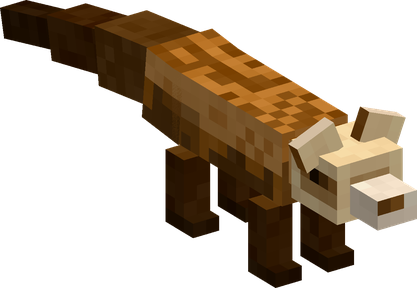
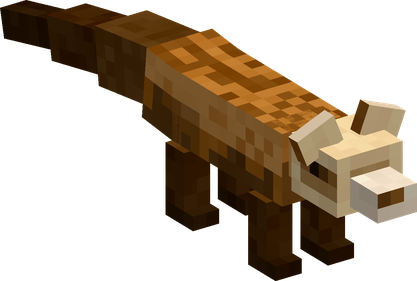
InoFruits 3.3.0 (#63)

diff --git a/docs/mods/inofruits/fruits/index.md b/docs/mods/inofruits/fruits/index.md
@@ -12,7 +12,6 @@ InoFruits adds **34 Devil Fruits**. Pick one to see its abilities.
 | ![](../fruit-icons/gamu-gamu-no-mi.png){ .fruit-icon } [**Gamu Gamu no Mi**](gamu-gamu-no-mi.md) | chewing gum | ![Iron box](../../../assets/mineminenomi/iron_box.png "Iron box: texture from Mine Mine no Mi"){ .box-icon } Iron | [Neba Dan](gamu-gamu-no-mi.md#neba-dan), [Fuusen](gamu-gamu-no-mi.md#fuusen), [Kikyu](gamu-gamu-no-mi.md#kikyu), [Banji Gamu](gamu-gamu-no-mi.md#banji-gamu), [Nebaashi](gamu-gamu-no-mi.md#nebaashi), [Hanekaeshi](gamu-gamu-no-mi.md#hanekaeshi) |
 | ![](../fruit-icons/hone-hone-no-mi.png){ .fruit-icon } [**Hone Hone no Mi**](hone-hone-no-mi.md) | bone | ![Iron box](../../../assets/mineminenomi/iron_box.png "Iron box: texture from Mine Mine no Mi"){ .box-icon } Iron | [Hone Hone Point](hone-hone-no-mi.md#hone-hone-point), [Bone Throw](hone-hone-no-mi.md#bone-throw), [Bone Blade](hone-hone-no-mi.md#bone-blade), [Bone Shards](hone-hone-no-mi.md#bone-shards), [Bone Mend](hone-hone-no-mi.md#bone-mend), [Spare Bone](hone-hone-no-mi.md#spare-bone) |
 | ![](../fruit-icons/ichi-ichi-no-mi.png){ .fruit-icon } [**Ichi Ichi no Mi**](ichi-ichi-no-mi.md) | swapping | ![Iron box](../../../assets/mineminenomi/iron_box.png "Iron box: texture from Mine Mine no Mi"){ .box-icon } Iron | [Irekae](ichi-ichi-no-mi.md#irekae), [Zen Irekae](ichi-ichi-no-mi.md#zen-irekae), [Surikae](ichi-ichi-no-mi.md#surikae), [Hikikae](ichi-ichi-no-mi.md#hikikae), [Memai](ichi-ichi-no-mi.md#memai) |
-| ![](../fruit-icons/iro-iro-no-mi.png){ .fruit-icon } [**Iro Iro no Mi**](iro-iro-no-mi.md) | dye | ![Wooden box](../../../assets/mineminenomi/wooden_box.png "Wooden box: texture from Mine Mine no Mi"){ .box-icon } Wooden | [Enogu Dama](iro-iro-no-mi.md#enogu-dama), [Shirushi](iro-iro-no-mi.md#shirushi), [Hogoshoku](iro-iro-no-mi.md#hogoshoku), [Ikusa Gesho](iro-iro-no-mi.md#ikusa-gesho), [Enogu](iro-iro-no-mi.md#enogu) |
 | ![](../fruit-icons/kane-kane-no-mi.png){ .fruit-icon } [**Kane Kane no Mi**](kane-kane-no-mi.md) | treasure | ![Wooden box](../../../assets/mineminenomi/wooden_box.png "Wooden box: texture from Mine Mine no Mi"){ .box-icon } Wooden | [Komyaku](kane-kane-no-mi.md#komyaku), [Meate](kane-kane-no-mi.md#meate), [Nakami](kane-kane-no-mi.md#nakami), [Kiun](kane-kane-no-mi.md#kiun), [Zeni Nage](kane-kane-no-mi.md#zeni-nage), [Oatari](kane-kane-no-mi.md#oatari) |
 | ![](../fruit-icons/kiza-kiza-no-mi.png){ .fruit-icon } [**Kiza Kiza no Mi**](kiza-kiza-no-mi.md) | slider | ![Wooden box](../../../assets/mineminenomi/wooden_box.png "Wooden box: texture from Mine Mine no Mi"){ .box-icon } Wooden | [Kiza Dashi](kiza-kiza-no-mi.md#kiza-dashi), [Hikisage](kiza-kiza-no-mi.md#hikisage), [Kiza Modoshi](kiza-kiza-no-mi.md#kiza-modoshi), [Kiza Maki](kiza-kiza-no-mi.md#kiza-maki), [Oshiage](kiza-kiza-no-mi.md#oshiage), [Zen Hikisage](kiza-kiza-no-mi.md#zen-hikisage) |
 | ![](../fruit-icons/kobo-kobo-no-mi.png){ .fruit-icon } [**Kobo Kobo no Mi**](kobo-kobo-no-mi.md) | spill | ![Wooden box](../../../assets/mineminenomi/wooden_box.png "Wooden box: texture from Mine Mine no Mi"){ .box-icon } Wooden | [Te Kobo](kobo-kobo-no-mi.md#te-kobo), [Hako Kobo](kobo-kobo-no-mi.md#hako-kobo), [Chi Kobo](kobo-kobo-no-mi.md#chi-kobo), [Hara Kobo](kobo-kobo-no-mi.md#hara-kobo) |
@@ -21,6 +20,7 @@ InoFruits adds **34 Devil Fruits**. Pick one to see its abilities.
 | ![](../fruit-icons/mitsu-mitsu-no-mi.png){ .fruit-icon } [**Mitsu Mitsu no Mi**](mitsu-mitsu-no-mi.md) | honey | ![Iron box](../../../assets/mineminenomi/iron_box.png "Iron box: texture from Mine Mine no Mi"){ .box-icon } Iron | [Mitsu Numa](mitsu-mitsu-no-mi.md#mitsu-numa), [Mitsu Goromo](mitsu-mitsu-no-mi.md#mitsu-goromo), [Mitsu Gusuri](mitsu-mitsu-no-mi.md#mitsu-gusuri), [Kohaku](mitsu-mitsu-no-mi.md#kohaku), [Amahada](mitsu-mitsu-no-mi.md#amahada), [Mitsu Suberi](mitsu-mitsu-no-mi.md#mitsu-suberi) |
 | ![](../fruit-icons/neji-neji-no-mi.png){ .fruit-icon } [**Neji Neji no Mi**](neji-neji-no-mi.md) | twist | ![Wooden box](../../../assets/mineminenomi/wooden_box.png "Wooden box: texture from Mine Mine no Mi"){ .box-icon } Wooden | [Neji Neji Point](neji-neji-no-mi.md#neji-neji-point), [Rasen](neji-neji-no-mi.md#rasen), [Nejikiri](neji-neji-no-mi.md#nejikiri), [Nejikomi](neji-neji-no-mi.md#nejikomi), [Totsushin](neji-neji-no-mi.md#totsushin) |
 | ![](../fruit-icons/oki-oki-no-mi.png){ .fruit-icon } [**Oki Oki no Mi**](oki-oki-no-mi.md) | law | ![Golden box](../../../assets/mineminenomi/golden_box.png "Golden box: texture from Mine Mine no Mi"){ .box-icon } Golden | [Halt](oki-oki-no-mi.md#law-halt), [Grounded](oki-oki-no-mi.md#law-grounded), [Levitate](oki-oki-no-mi.md#law-levitate), [Truce](oki-oki-no-mi.md#law-truce), [Ceasefire](oki-oki-no-mi.md#law-ceasefire), [Silence](oki-oki-no-mi.md#law-silence), [No Healing](oki-oki-no-mi.md#law-no-healing), [No Escape](oki-oki-no-mi.md#law-no-escape), [Disarm](oki-oki-no-mi.md#law-disarm), [No Haki](oki-oki-no-mi.md#law-no-haki), [Reveal](oki-oki-no-mi.md#law-reveal), [Retribution](oki-oki-no-mi.md#law-retribution), [Inversion](oki-oki-no-mi.md#law-inversion), [Blindness](oki-oki-no-mi.md#law-blindness), [No Building](oki-oki-no-mi.md#law-no-building), [Walk](oki-oki-no-mi.md#law-walk) |
+| ![](../fruit-icons/some-some-no-mi.png){ .fruit-icon } [**Some Some no Mi**](some-some-no-mi.md) | dye | ![Wooden box](../../../assets/mineminenomi/wooden_box.png "Wooden box: texture from Mine Mine no Mi"){ .box-icon } Wooden | [Enogu Dama](some-some-no-mi.md#enogu-dama), [Shirushi](some-some-no-mi.md#shirushi), [Hogoshoku](some-some-no-mi.md#hogoshoku), [Ikusa Gesho](some-some-no-mi.md#ikusa-gesho), [Enogu](some-some-no-mi.md#enogu) |
 | ![](../fruit-icons/suji-suji-no-mi.png){ .fruit-icon } [**Suji Suji no Mi**](suji-suji-no-mi.md) | muscle | ![Iron box](../../../assets/mineminenomi/iron_box.png "Iron box: texture from Mine Mine no Mi"){ .box-icon } Iron | [Suji Suji Upper Point](suji-suji-no-mi.md#suji-suji-upper-point), [Suji Suji Lower Point](suji-suji-no-mi.md#suji-suji-lower-point), [Suji Suji Full Point](suji-suji-no-mi.md#suji-suji-full-point), [Hasai](suji-suji-no-mi.md#hasai), [Choyaku](suji-suji-no-mi.md#choyaku) |
 | ![](../fruit-icons/tsuri-tsuri-no-mi.png){ .fruit-icon } [**Tsuri Tsuri no Mi**](tsuri-tsuri-no-mi.md) | fishing | ![Wooden box](../../../assets/mineminenomi/wooden_box.png "Wooden box: texture from Mine Mine no Mi"){ .box-icon } Wooden | [Ipponzuri](tsuri-tsuri-no-mi.md#ipponzuri), [Tsuriage](tsuri-tsuri-no-mi.md#tsuriage), [Kaginawa](tsuri-tsuri-no-mi.md#kaginawa), [Tsuribito](tsuri-tsuri-no-mi.md#tsuribito) |
 | ![](../fruit-icons/wata-wata-no-mi.png){ .fruit-icon } [**Wata Wata no Mi**](wata-wata-no-mi.md) | cotton | ![Wooden box](../../../assets/mineminenomi/wooden_box.png "Wooden box: texture from Mine Mine no Mi"){ .box-icon } Wooden | [Wata Yoroi](wata-wata-no-mi.md#wata-yoroi), [Watagumo](wata-wata-no-mi.md#watagumo), [Wataho](wata-wata-no-mi.md#wataho), [Watazumi](wata-wata-no-mi.md#watazumi) |

diff --git a/docs/mods/inofruits/all-abilities.md b/docs/mods/inofruits/all-abilities.md
@@ -48,11 +48,6 @@ Every ability of the 34 fruits in one table: **click a column** to sort it, **ty
 | ![](abilities/surikae.png){ .ability-mini }[Surikae](fruits/ichi-ichi-no-mi.md#surikae) | [Ichi Ichi no Mi](fruits/ichi-ichi-no-mi.md) | Active | 20 s |  |  |  | 128 blocks (line) |
 | ![](abilities/hikikae.png){ .ability-mini }[Hikikae](fruits/ichi-ichi-no-mi.md#hikikae) | [Ichi Ichi no Mi](fruits/ichi-ichi-no-mi.md) | Active | 20 s |  |  |  | 128 blocks (line) |
 | ![](abilities/memai.png){ .ability-mini }[Memai](fruits/ichi-ichi-no-mi.md#memai) | [Ichi Ichi no Mi](fruits/ichi-ichi-no-mi.md) | Passive |  |  |  |  |  |
-| ![](abilities/enogu-dama.png){ .ability-mini }[Enogu Dama](fruits/iro-iro-no-mi.md#enogu-dama) | [Iro Iro no Mi](fruits/iro-iro-no-mi.md) | Active | 6 s |  |  | 2 |  |
-| ![](abilities/shirushi.png){ .ability-mini }[Shirushi](fruits/iro-iro-no-mi.md#shirushi) | [Iro Iro no Mi](fruits/iro-iro-no-mi.md) | Active | 15 s |  |  |  | 12 blocks (line) |
-| ![](abilities/hogoshoku.png){ .ability-mini }[Hogoshoku](fruits/iro-iro-no-mi.md#hogoshoku) | [Iro Iro no Mi](fruits/iro-iro-no-mi.md) | Active | 20 s |  | 30 s |  |  |
-| ![](abilities/ikusa-gesho.png){ .ability-mini }[Ikusa Gesho](fruits/iro-iro-no-mi.md#ikusa-gesho) | [Iro Iro no Mi](fruits/iro-iro-no-mi.md) | Active | 30 s |  | 30 s |  |  |
-| ![](abilities/enogu.png){ .ability-mini }[Enogu](fruits/iro-iro-no-mi.md#enogu) | [Iro Iro no Mi](fruits/iro-iro-no-mi.md) | Active | 1 s |  |  |  |  |
 | ![](abilities/isa-isa-guard-point.png){ .ability-mini }[Isa Isa Guard Point](fruits/isa-isa-no-mi-model-whale.md#isa-isa-guard-point) | [Isa Isa no Mi, Model: Whale](fruits/isa-isa-no-mi-model-whale.md) | Active · Transformation |  |  |  |  |  |
 | ![](abilities/isa-isa-heavy-point.png){ .ability-mini }[Isa Isa Heavy Point](fruits/isa-isa-no-mi-model-whale.md#isa-isa-heavy-point) | [Isa Isa no Mi, Model: Whale](fruits/isa-isa-no-mi-model-whale.md) | Active · Transformation |  |  |  |  |  |
 | ![](abilities/taiatari.png){ .ability-mini }[Taiatari](fruits/isa-isa-no-mi-model-whale.md#taiatari) | [Isa Isa no Mi, Model: Whale](fruits/isa-isa-no-mi-model-whale.md) | Active | 15 s |  |  | 8 / 14 | 4.5 blocks (area) / 8 blocks (area) |
@@ -173,6 +168,11 @@ Every ability of the 34 fruits in one table: **click a column** to sort it, **ty
 | ![](abilities/shio-no-wa.png){ .ability-mini }[Shio no Wa](fruits/shio-shio-no-mi.md#shio-no-wa) | [Shio Shio no Mi](fruits/shio-shio-no-mi.md) | Active | 20 s |  | 30 s |  | 8 blocks (area) |
 | ![](abilities/dassui.png){ .ability-mini }[Dassui](fruits/shio-shio-no-mi.md#dassui) | [Shio Shio no Mi](fruits/shio-shio-no-mi.md) | Active | 14 s |  |  | 6 | 8 blocks (area) |
 | ![](abilities/shio-bashira.png){ .ability-mini }[Shio Bashira](fruits/shio-shio-no-mi.md#shio-bashira) | [Shio Shio no Mi](fruits/shio-shio-no-mi.md) | Active | 30 s |  |  | 20 | 20 blocks (line) |
+| ![](abilities/enogu-dama.png){ .ability-mini }[Enogu Dama](fruits/some-some-no-mi.md#enogu-dama) | [Some Some no Mi](fruits/some-some-no-mi.md) | Active | 6 s |  |  | 2 |  |
+| ![](abilities/shirushi.png){ .ability-mini }[Shirushi](fruits/some-some-no-mi.md#shirushi) | [Some Some no Mi](fruits/some-some-no-mi.md) | Active | 15 s |  |  |  | 12 blocks (line) |
+| ![](abilities/hogoshoku.png){ .ability-mini }[Hogoshoku](fruits/some-some-no-mi.md#hogoshoku) | [Some Some no Mi](fruits/some-some-no-mi.md) | Active | 20 s |  | 30 s |  |  |
+| ![](abilities/ikusa-gesho.png){ .ability-mini }[Ikusa Gesho](fruits/some-some-no-mi.md#ikusa-gesho) | [Some Some no Mi](fruits/some-some-no-mi.md) | Active | 30 s |  | 30 s |  |  |
+| ![](abilities/enogu.png){ .ability-mini }[Enogu](fruits/some-some-no-mi.md#enogu) | [Some Some no Mi](fruits/some-some-no-mi.md) | Active | 1 s |  |  |  |  |
 | ![](abilities/suji-suji-upper-point.png){ .ability-mini }[Suji Suji Upper Point](fruits/suji-suji-no-mi.md#suji-suji-upper-point) | [Suji Suji no Mi](fruits/suji-suji-no-mi.md) | Active · Transformation |  |  |  |  |  |
 | ![](abilities/suji-suji-lower-point.png){ .ability-mini }[Suji Suji Lower Point](fruits/suji-suji-no-mi.md#suji-suji-lower-point) | [Suji Suji no Mi](fruits/suji-suji-no-mi.md) | Active · Transformation |  |  |  |  |  |
 | ![](abilities/suji-suji-full-point.png){ .ability-mini }[Suji Suji Full Point](fruits/suji-suji-no-mi.md#suji-suji-full-point) | [Suji Suji no Mi](fruits/suji-suji-no-mi.md) | Active · Transformation |  |  |  |  |  |

diff --git a/docs/mods/inofruits/changelog.md b/docs/mods/inofruits/changelog.md
@@ -2,6 +2,52 @@
 
 Every InoFruits release for Minecraft 1.20.1, newest first, as published on [CurseForge](https://www.curseforge.com/minecraft/mc-mods/inofruits/files/all).
 
+## 3.3.0 { #v3-3-0 }
+
+<small>Released 2026-09-30 · [Download](https://www.curseforge.com/minecraft/mc-mods/inofruits/files/9016786)</small>
+
+<div class="changelog-body" markdown="0">
+<p><strong>The Iro Iro no Mi becomes the Some Some no Mi, the ferret gets three more coats, and fruits renamed in 3.0.0 come
+back in old worlds.</strong> The fruits are also put in the Devil Fruit boxes by data files now, so a modpack or a server
+can choose which box gives which fruit.</p>
+<p>Requires Minecraft <strong>1.20.1</strong>, Forge <strong>47+</strong>, <strong>Mine Mine no Mi</strong> 0.11.5 and <strong>AkumaLib 3.0.0</strong> or newer.</p>
+<p>⚠ <strong>Update AkumaLib to 3.0.0 first.</strong> With an older AkumaLib the game refuses to start and says which version it
+needs. And with AkumaLib 3.0.0, InoFruits 3.2.0 or older puts its fruits in no box: update both together.</p>
+<hr />
+<h2>Devil Fruit boxes</h2>
+<ul>
+<li><strong>Every fruit is in the same box as before</strong>, as common as a Mine Mine no Mi fruit of its tier, and the chance
+  for a box to give a fruit of the tier above still reaches them.</li>
+<li><strong>Modpacks and servers can change it</strong> with a data pack: move a fruit to another box, make it rarer or more
+  common, or take it out (see AkumaLib's
+  <a href="https://inovactio.github.io/akumalib/loot-injection/devil-fruit-boxes/">Devil Fruit boxes page</a>).</li>
+</ul>
+<h2>New looks</h2>
+<ul>
+<li><strong>Three more coats for the ferret: albino, polecat and full black</strong>, in both forms. The ferret now comes in six
+  coats, and each player still always gets the same one. ⚠ With more coats to choose from, about half the players'
+  ferrets change colour once.</li>
+</ul>
+<h2>Renamed</h2>
+<ul>
+<li><strong>The Iro Iro no Mi is now the Some Some no Mi</strong> ("dye"): the old name belongs to a fruit of One Piece itself.
+  Nothing to do: a fruit you have eaten, its abilities, and the fruits in your chests and inventories carry over
+  under the new name.</li>
+</ul>
+<h2>Fixes</h2>
+<ul>
+<li><strong>Fruits renamed in 3.0.0 carry over.</strong> A world last played before 3.0.0 now keeps, under their new names, the
+  fruits in its chests and inventories and the fruit each player had eaten; they used to vanish. (A world already
+  opened with 3.0.0 or later lost them then, and they cannot come back.)</li>
+<li><strong>The ferret's body no longer floats above its legs</strong> in its animal form, at rest and when it walks.</li>
+<li><strong>The unicorn needs a form for its horn techniques.</strong> Horn Thrust, Prism Lance, Unicorn Charge, Starfall,
+  Guiding Light, Moonlight Burst, Purify and Sanctuary no longer work in human form.</li>
+<li><strong>The mosquito walks.</strong> Its six legs now move when it walks on the ground instead of sliding.</li>
+<li><strong>Hybrid forms move with your techniques.</strong> When a technique moves your arms (Saigoppe, a punch...), the fur,
+  claws or armour the form puts on them now follow instead of staying behind.</li>
+</ul>
+</div>
+
 ## 3.2.0 { #v3-2-0 }
 
 <small>Released 2026-09-27 · [Download](https://www.curseforge.com/minecraft/mc-mods/inofruits/files/8993040)</small>

diff --git a/docs/mods/inofruits/fruits/iro-iro-no-mi.md b/docs/mods/inofruits/fruits/iro-iro-no-mi.md
@@ -1,111 +1,10 @@
+---
+search:
+  exclude: true
+---
+
 # Iro Iro no Mi
 
-![](../fruit-icons/iro-iro-no-mi.png){ .mod-icon }
+The Iro Iro no Mi was renamed **Some Some no Mi** in InoFruits 3.3.0: [see its page](some-some-no-mi.md).
 
-| | |
-|---|---|
-| **Type** | Paramecia |
-| **Theme** | Dye |
-| **Box** | ![Wooden box](../../../assets/mineminenomi/wooden_box.png "Wooden box: texture from Mine Mine no Mi"){ .box-icon } Wooden |
-| **Chance per opening** | wooden **2.32%** ([how it works](index.md#box-odds)) |
-| **Abilities** | 5: 5 active, 0 passive |
-| **Effects applied** | ![](../effect-icons/marked.png){ .effect-mini }[Marked](../effects.md#effect-marked), ![](../effect-icons/war-paint.png){ .effect-mini }[War Paint](../effects.md#effect-war-paint) |
-
-Found in the base mod's **wooden Devil Fruit box**. Eat it and its abilities appear in the ability menu, grouped under the fruit.
-
-!!! note "About the values"
-    The values are those of the ability's tooltip in game, with the base mod's default settings. Damage is shown on the base mod's scale, as in the ability screen.
-
-## Enogu Dama { #enogu-dama }
-
-![](../abilities/enogu-dama.png){ .ability-icon } *Active*
-
-Throws a paint blob that does a little damage and blinds the target for 5 seconds
-
-| Stat | Value |
-|---|---|
-| Damage type | Projectile, Indirect |
-| Haki | Imbuing |
-| Cooldown | 6 s |
-| Projectile damage | 2 |
-
-## Shirushi { #shirushi }
-
-![](../abilities/shirushi.png){ .ability-icon } *Active*
-
-Applies ![](../effect-icons/marked.png){ .effect-mini }[Marked](../effects.md#effect-marked)
-
-Paints a mark on the first target in the way which can be seen through walls.
-
-| Stat | Value |
-|---|---|
-| Cooldown | 15 s |
-| Range | 12 blocks (line) |
-
-## Hogoshoku { #hogoshoku }
-
-![](../abilities/hogoshoku.png){ .ability-icon } *Active*
-
-The user takes on the colors of what's behind them, only works while standing still
-
-| Stat | Value |
-|---|---|
-| Hold | 30 s |
-| Cooldown | 20 s |
-
-## Ikusa Gesho { #ikusa-gesho }
-
-![](../abilities/ikusa-gesho.png){ .ability-icon } *Active*
-
-Applies ![](../effect-icons/war-paint.png){ .effect-mini }[War Paint](../effects.md#effect-war-paint)
-
-Paints the user for battle, giving a different bonus for each of the 16 colors.
-
-White: +2 toughness.
-
-Orange: immune to fire.
-
-Magenta: +0.3 knockback resistance.
-
-Light Blue: +30% jump height.
-
-Yellow: +4 armour.
-
-Lime: never hungry.
-
-Pink: +4 max health.
-
-Gray: +8 fall resistance.
-
-Light Gray: haste.
-
-Cyan: +20% attack speed.
-
-Purple: +2 luck.
-
-Blue: +15% movement speed.
-
-Brown: +0.3 friction.
-
-Green: double natural regeneration.
-
-Red: +2 punch damage.
-
-Black: night vision.
-
-| Stat | Value |
-|---|---|
-| Hold | 30 s |
-| Cooldown | 30 s |
-
-## Enogu { #enogu }
-
-![](../abilities/enogu.png){ .ability-icon } *Active*
-
-Produces some dye, changing the ability mode picks the next one of the 16 colors
-
-The color picked also changes Shirushi's mark, Enogu Dama's splash and Ikusa Gesho's bonus.
-
-| Stat | Value |
-|---|---|
-| Cooldown | 1 s |
+<script>location.replace('../some-some-no-mi/' + location.hash);</script>

diff --git a/docs/mods/inofruits/fruits/some-some-no-mi.md b/docs/mods/inofruits/fruits/some-some-no-mi.md
@@ -1,0 +1,111 @@
+# Some Some no Mi
+
+![](../fruit-icons/some-some-no-mi.png){ .mod-icon }
+
+| | |
+|---|---|
+| **Type** | Paramecia |
+| **Theme** | Dye |
+| **Box** | ![Wooden box](../../../assets/mineminenomi/wooden_box.png "Wooden box: texture from Mine Mine no Mi"){ .box-icon } Wooden |
+| **Chance per opening** | wooden **2.32%** ([how it works](index.md#box-odds)) |
+| **Abilities** | 5: 5 active, 0 passive |
+| **Effects applied** | ![](../effect-icons/marked.png){ .effect-mini }[Marked](../effects.md#effect-marked), ![](../effect-icons/war-paint.png){ .effect-mini }[War Paint](../effects.md#effect-war-paint) |
+
+Found in the base mod's **wooden Devil Fruit box**. Eat it and its abilities appear in the ability menu, grouped under the fruit.
+
+!!! note "About the values"
+    The values are those of the ability's tooltip in game, with the base mod's default settings. Damage is shown on the base mod's scale, as in the ability screen.
+
+## Enogu Dama { #enogu-dama }
+
+![](../abilities/enogu-dama.png){ .ability-icon } *Active*
+
+Throws a paint blob that does a little damage and blinds the target for 5 seconds
+
+| Stat | Value |
+|---|---|
+| Damage type | Projectile, Indirect |
+| Haki | Imbuing |
+| Cooldown | 6 s |
+| Projectile damage | 2 |
+
+## Shirushi { #shirushi }
+
+![](../abilities/shirushi.png){ .ability-icon } *Active*
+
+Applies ![](../effect-icons/marked.png){ .effect-mini }[Marked](../effects.md#effect-marked)
+
+Paints a mark on the first target in the way which can be seen through walls.
+
+| Stat | Value |
+|---|---|
+| Cooldown | 15 s |
+| Range | 12 blocks (line) |
+
+## Hogoshoku { #hogoshoku }
+
+![](../abilities/hogoshoku.png){ .ability-icon } *Active*
+
+The user takes on the colors of what's behind them, only works while standing still
+
+| Stat | Value |
+|---|---|
+| Hold | 30 s |
+| Cooldown | 20 s |
+
+## Ikusa Gesho { #ikusa-gesho }
+
+![](../abilities/ikusa-gesho.png){ .ability-icon } *Active*
+
+Applies ![](../effect-icons/war-paint.png){ .effect-mini }[War Paint](../effects.md#effect-war-paint)
+
+Paints the user for battle, giving a different bonus for each of the 16 colors.
+
+White: +2 toughness.
+
+Orange: immune to fire.
+
+Magenta: +0.3 knockback resistance.
+
+Light Blue: +30% jump height.
+
+Yellow: +4 armour.
+
+Lime: never hungry.
+
+Pink: +4 max health.
+
+Gray: +8 fall resistance.
+
+Light Gray: haste.
+
+Cyan: +20% attack speed.
+
+Purple: +2 luck.
+
+Blue: +15% movement speed.
+
+Brown: +0.3 friction.
+
+Green: double natural regeneration.
+
+Red: +2 punch damage.
+
+Black: night vision.
+
+| Stat | Value |
+|---|---|
+| Hold | 30 s |
+| Cooldown | 30 s |
+
+## Enogu { #enogu }
+
+![](../abilities/enogu.png){ .ability-icon } *Active*
+
+Produces some dye, changing the ability mode picks the next one of the 16 colors
+
+The color picked also changes Shirushi's mark, Enogu Dama's splash and Ikusa Gesho's bonus.
+
+| Stat | Value |
+|---|---|
+| Cooldown | 1 s |

diff --git a/docs/mods/inofruits/effects.md b/docs/mods/inofruits/effects.md
@@ -28,7 +28,7 @@ The **33 status effects** InoFruits adds, and what applies them.
 | ![](effect-icons/law-silence.png){ .effect-icon } **Law: Silence**{ #effect-law-silence } | Neutral | [Silence](fruits/oki-oki-no-mi.md#law-silence) |
 | ![](effect-icons/law-truce.png){ .effect-icon } **Law: Truce**{ #effect-law-truce } | Neutral | [Truce](fruits/oki-oki-no-mi.md#law-truce) |
 | ![](effect-icons/law-walk.png){ .effect-icon } **Law: Walk**{ #effect-law-walk } | Neutral | [Walk](fruits/oki-oki-no-mi.md#law-walk) |
-| ![](effect-icons/marked.png){ .effect-icon } **Marked**{ #effect-marked } | Harmful | [Shirushi](fruits/iro-iro-no-mi.md#shirushi) |
+| ![](effect-icons/marked.png){ .effect-icon } **Marked**{ #effect-marked } | Harmful | [Shirushi](fruits/some-some-no-mi.md#shirushi) |
 | ![](effect-icons/nailed.png){ .effect-icon } **Nailed**{ #effect-nailed } | Harmful | [Kugi Ame](fruits/kugi-kugi-no-mi.md#kugi-ame), [Kugi Yoroi](fruits/kugi-kugi-no-mi.md#kugi-yoroi), [Kugibari](fruits/kugi-kugi-no-mi.md#kugibari), [Kugizuke](fruits/kugi-kugi-no-mi.md#kugizuke) |
 | ![](effect-icons/namakura.png){ .effect-icon } **Namakura**{ #effect-namakura } | Harmful | [Mitsu Goromo](fruits/mitsu-mitsu-no-mi.md#mitsu-goromo) |
 | ![](effect-icons/nebatsuki.png){ .effect-icon } **Nebatsuki**{ #effect-nebatsuki } | Harmful | [Amahada](fruits/mitsu-mitsu-no-mi.md#amahada), [Mitsu Goromo](fruits/mitsu-mitsu-no-mi.md#mitsu-goromo), [Mitsu Numa](fruits/mitsu-mitsu-no-mi.md#mitsu-numa), [Mitsu Suberi](fruits/mitsu-mitsu-no-mi.md#mitsu-suberi) |
@@ -36,4 +36,4 @@ The **33 status effects** InoFruits adds, and what applies them.
 | ![](effect-icons/purified.png){ .effect-icon } **Purified**{ #effect-purified } | Beneficial | [Purify](fruits/uma-uma-no-mi-model-unicorn.md#purify), [Sanctuary](fruits/uma-uma-no-mi-model-unicorn.md#sanctuary) |
 | ![](effect-icons/shio-form.png){ .effect-icon } **Shio Form**{ #effect-shio-form } | Beneficial | [Shio Nagare](fruits/shio-shio-no-mi.md#shio-nagare) |
 | ![](effect-icons/shiozuke.png){ .effect-icon } **Shiozuke**{ #effect-shiozuke } | Harmful | [Dassui](fruits/shio-shio-no-mi.md#dassui), [Logia Invulnerability Shio](fruits/shio-shio-no-mi.md#logia-invulnerability-shio), [Shio Bashira](fruits/shio-shio-no-mi.md#shio-bashira), [Shio Nagare](fruits/shio-shio-no-mi.md#shio-nagare), [Shio no Ame](fruits/shio-shio-no-mi.md#shio-no-ame), [Shio no Wa](fruits/shio-shio-no-mi.md#shio-no-wa), [Shiozuke](fruits/shio-shio-no-mi.md#shiozuke) |
-| ![](effect-icons/war-paint.png){ .effect-icon } **War Paint**{ #effect-war-paint } | Beneficial | [Ikusa Gesho](fruits/iro-iro-no-mi.md#ikusa-gesho) |
+| ![](effect-icons/war-paint.png){ .effect-icon } **War Paint**{ #effect-war-paint } | Beneficial | [Ikusa Gesho](fruits/some-some-no-mi.md#ikusa-gesho) |

diff --git a/docs/mods/inofruits/index.md b/docs/mods/inofruits/index.md
@@ -6,7 +6,7 @@
 
 | | |
 |---|---|
-| Version documented | **3.2.0** |
+| Version documented | **3.3.0** |
 | Mod id | `inofruits` |
 | Download | [CurseForge](https://www.curseforge.com/minecraft/mc-mods/inofruits) |
 | Changelog | [Every release](changelog.md) |
@@ -28,7 +28,7 @@ The fruits behave like the base mod's own:
 | Minecraft | 1.20.1 |
 | Forge | 47.4.18 or later |
 | [Mine Mine no Mi](https://www.curseforge.com/minecraft/mc-mods/mine-mine-no-mi-mod) | 0.11.x (built against `1.20.1-0.11.5`) |
-| [AkumaLib](../../akumalib/index.md) | **2.9.0 or later** |
+| [AkumaLib](../../akumalib/index.md) | **3.0.0 or later** |
 
 ## Getting started
 
